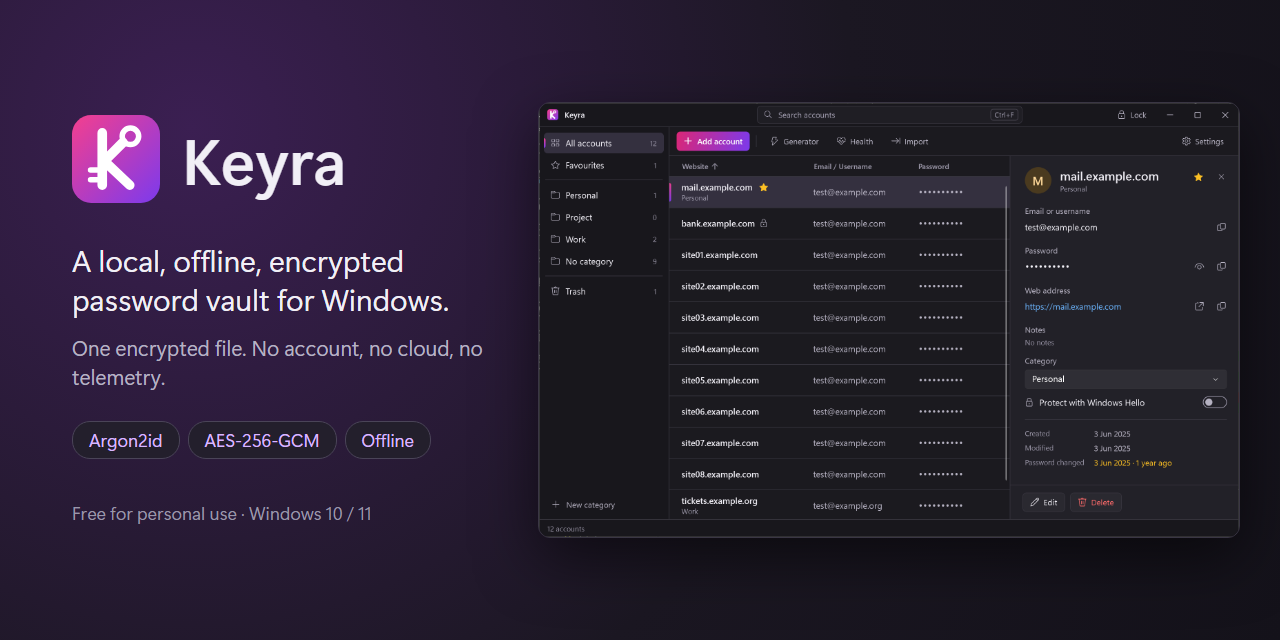
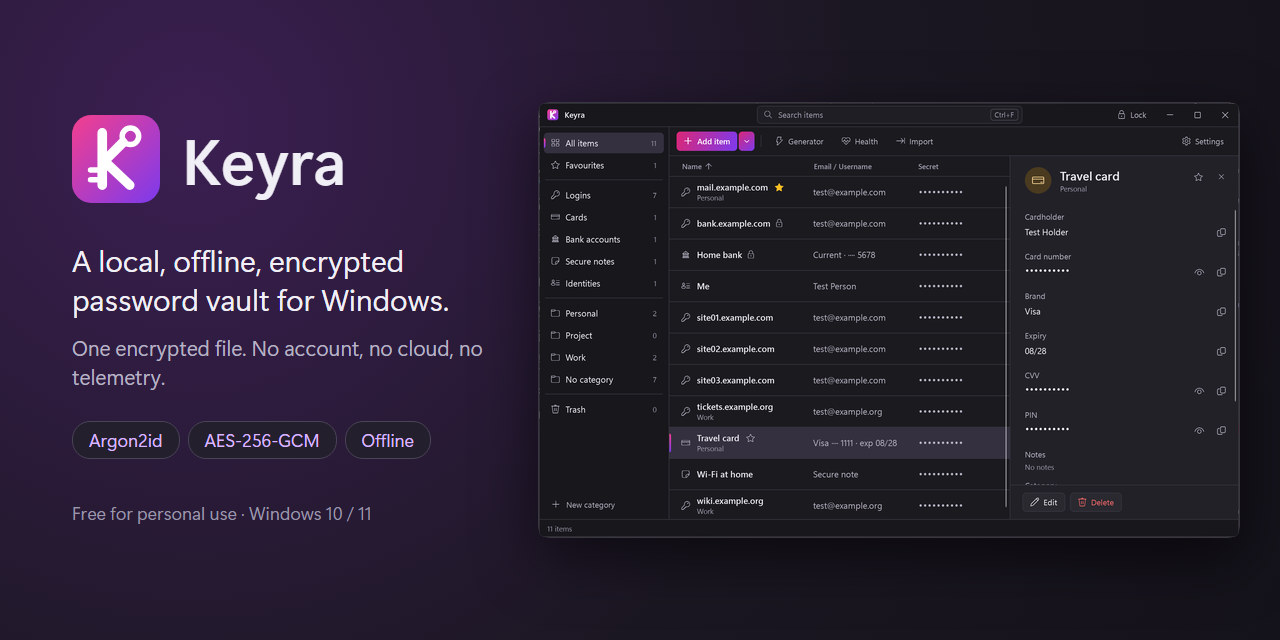
Keyra 1.7.1: Windows Hello unlock fixes, docs (where things are, restore, going back to 1.6, uninstall), new screenshots and social preview

diff --git a/docs/security.md b/docs/security.md
@@ -60,7 +60,7 @@ Every save writes a new temp file in the same folder, flushes it to disk, then r
 - The key stays in a pinned 32-byte array and is zeroed on lock.
 - Account strings are normal .NET strings. The garbage collector may copy them and they cannot be reliably zeroed. Decrypted JSON byte buffers and password byte buffers are zeroed after use. `SecureString` is not used: Microsoft does not recommend it for new code, and WPF text boxes produce strings anyway.
 - Secrets (password, notes, recovery phone, PIN, security answers, old passwords in the history, and the card, bank, note and ID secrets listed under "Protected items") are masked with a fixed-length mask. Only one is shown at a time; it hides again after 20 seconds, on selection change, when a dialog opens or the details panel closes, when the window loses focus, or on lock. Secrets are never searched. In the editor they are typed into password boxes, read in code-behind, never bound.
-- Lock happens on the Lock button, after inactivity (default 5 minutes), on minimize (with "Minimize to tray" on: lock, then hide), on Windows lock / user switch / remote disconnect, on suspend, and on exit. The tray icon exists only while Keyra is hidden and shows only "Keyra (locked)", "Open Keyra" and "Exit". Lock drops the items, zeroes the key, clears password boxes and dialogs, and clears a secret Keyra put on the clipboard. A lock that happens while an unlock or a vault create is still running wins: the vault stays locked.
+- Lock happens on the Lock button, after inactivity (default 5 minutes), on minimize (with "Minimize to tray" on: lock, then hide), on Windows lock / user switch / remote disconnect, on suspend, and on exit. The tray icon exists only while Keyra is hidden and shows only "Keyra (locked)", "Open Keyra" and "Exit". Lock drops the items, zeroes the key (with Hello unlock on, only a Windows Hello–wrapped copy stays in memory, see below), clears password boxes and dialogs, and clears a secret Keyra put on the clipboard. A lock that happens while an unlock or a vault create is still running wins: the vault stays locked.
 
 ## Screen capture and shoulder surfing
 - By default every Keyra window (main window, dialogs, tooltips, drop-downs, menus, file dialogs; not the tray icon menu, which shows no data and exists only while locked) is excluded from screenshots, recordings and screen sharing (Windows display affinity "exclude from capture"; black on older Windows). It is always on before unlock and on again after lock. You can allow capture in Settings → Advanced → Privacy after a confirmation.
@@ -70,7 +70,7 @@ Every save writes a new temp file in the same folder, flushes it to disk, then r
 ## Unlock with Windows Hello
 - Off by default. Turned on per PC in Settings → Security (stored in plain `hello-unlock.txt` under LocalAppData; it holds no secret). Turning it on asks the master password. Editing the file to "on" only makes Keyra ask Windows Hello after the next master-password unlock; nothing works without that prompt.
 - Keyra uses one Windows Hello key per Windows user, named "Keyra vault unlock" (RSA 2048, made by Windows, in the TPM when the PC has one). Keyra never sees its private part. Two Keyra installs of the same Windows user share this key; turning the setting off in one makes Hello unlock in the other ask for the master password.
-- After each master-password unlock (and after turning it on or changing the master password), Keyra asks Windows Hello to sign a new random 32-byte challenge. Core derives a wrap key = HKDF-SHA256(signature, info "Keyra hello unlock v1") and encrypts the vault key with AES-256-GCM (random nonce; the vault header KDF bytes as associated data). The signature and the wrap key are zeroed at once.
+- After each master-password unlock (and after turning it on or changing the master password), Keyra asks Windows Hello to sign a new random 32-byte challenge. Keyra derives a wrap key = HKDF-SHA256(signature, info "Keyra hello unlock v1") and encrypts the vault key with AES-256-GCM (random nonce; the vault header KDF bytes as associated data). The signature and the wrap key are zeroed at once.
 - On lock the plain key is zeroed; only the wrapped key, the challenge and the time of the master-password entry stay in memory. A Hello unlock signs the same challenge again, unwraps the key and opens the file with every normal check (no Argon2).
 - The wrapped key is never written to disk, sent or logged. It is dropped when Keyra exits, when the setting is turned off, on restore, after 5 wrong master passwords in a "Confirm it's you" check (wrong passwords on the lock screen do not drop it), after every successful master-password unlock or change (a new one is made), on a failed signature or unwrap, and 14 days after the master-password entry that made it (wall clock and a clock the user cannot set back are both checked).
 - A Hello unlock does not open protected items: they still ask for their own check. Hello results never count as wrong passwords.
@@ -79,7 +79,7 @@ Every save writes a new temp file in the same folder, flushes it to disk, then r
 ## Protected items (Windows Hello)
 - An item can be marked "Protect with Windows Hello"; new cards, bank accounts, secure notes and identities start protected. Showing or copying its secrets (password, notes, recovery phone, PIN, security answers, old passwords, card number, CVV, account number, IBAN, note text, passport, national ID, licence and tax numbers), Edit, Delete, Restore, Clear history and turning protection off first ask Windows Hello, or the master password if Hello is not available or was canceled.
 - This is a gate inside the unlocked app, not encryption. The vault is still encrypted only with the key from the master password; a protected item is stored the same way as any other. The gate itself never derives or stores a key (Hello unlock, above, is separate).
-- A passed check opens only that item for 60 seconds; a dialog opened for it (editor, confirmation) keeps it open until the dialog closes. Lock ends every open item. Core itself refuses changes to a protected item without a passed check.
+- A passed check opens only that item for 60 seconds; a dialog opened for it (editor, confirmation) keeps it open until the dialog closes. Lock ends every open item. Keyra itself refuses changes to a protected item without a passed check.
 - The Health report never names an unprotected login that has the same password as a protected one.
 - The master-password check runs Argon2id with the open vault's salt and parameters and compares the result with the key in memory in constant time. Nothing is stored. After 5 wrong master passwords in a row the vault locks. The current password in Change master password is the same check and counts too. Argon2 runs outside the vault's internal lock, so the window stays responsive.
 - Limits: like everything in an unlocked session (T11, T12), the gate does not stop malware that reads Keyra's memory, where the decrypted items already are. It stops a person at the unlocked PC from simply clicking "show" or "copy".
@@ -116,6 +116,7 @@ Keyra makes no network calls. There is no telemetry, update check, or cloud API.
 - Two legacy share holders who work together (they can open the legacy snapshot by design).
 - Malware, keyloggers, or anyone controlling your Windows session while the vault is unlocked or while you type the master password.
 - Someone using your unlocked PC while Keyra is unlocked.
+- With Hello unlock on, anyone who passes your Windows Hello (face, finger or PIN) while Keyra runs.
 - A weak master password. Argon2id slows guessing; it does not stop guessing of a short or common password.
 - Memory dumps or the page file containing strings from an unlocked session.
 - Clipboard readers during the clipboard window.

diff --git a/docs/threat-model.md b/docs/threat-model.md
@@ -11,7 +11,7 @@ Trust boundary: the user's unlocked Windows session. Everything outside it (file
 | T4 | Someone swaps in an older vault file | Opens if the old password is used; shows old data | Not prevented. Same as restoring a backup. Accepted. A file changed while Keyra is open (another PC, OneDrive) is never overwritten: the next save, backup or upgrade locks instead; only a change in the instant between the last check and the rename is missed |
 | T5 | Crash or power loss during save | Old vault intact | Temp file + flush + atomic rename |
 | T6 | Attacker has source code or binaries | No help | No hard-coded keys or salts |
-| T7 | Attacker reads ordinary config/log files | Nothing secret | Settings with security effect are inside the vault; log has no secrets |
+| T7 | Attacker reads ordinary config/log files | Nothing secret | Settings with security effect are inside the vault, except `hello-unlock.txt` (per PC, on or off only: setting it to on only makes Keyra ask Windows Hello after the next master-password unlock); log has no secrets |
 | T8 | Shoulder surfing | Reduced | Masked by default, fixed-length mask, timed re-hide, hide when a dialog opens; optional blur of the list rows |
 | T9 | Clipboard leakage | Reduced | History/cloud exclusion, timed clear only if unchanged, clear on lock |
 | T10 | Unlocked app left alone | Reduced | Auto-lock 5 min, lock on minimize/Windows lock/suspend; minimize to tray always locks before hiding |
@@ -30,3 +30,4 @@ Trust boundary: the user's unlocked Windows session. Everything outside it (file
 | T23 | Shoulder surfing of cards and bank accounts in the list | Reduced | Rows show at most the last 4 digits (only for numbers of 8 or more characters), blurred with the list option; every number, CVV, PIN, IBAN and ID is masked like a password |
 | T24 | Someone at the PC unlocks a locked Keyra with Windows Hello | Possible only if Hello unlock is on (off by default), Keyra still runs, and they pass your Windows Hello; the master password is needed after Keyra starts and at least every 14 days; protected items still ask | Windows Hello signs a challenge and the wrap key comes from that signature, so anyone who passes your Windows Hello (face, finger, PIN) can do it |
 | T25 | Someone reads the Hello-wrapped key from memory or disk | Never on disk or in the log; in memory it is encrypted with a key that needs a Windows Hello signature; dropped on exit, restore, 5 wrong passwords in a "Confirm it's you" check and after 14 days | AES-256-GCM wrap under HKDF(signature); malware in the session (T12) can ask Windows Hello itself while you are there |
+| T26 | Malware that can read Keyra's memory gets one Windows Hello approval while Keyra is locked | Not prevented when Hello unlock is on: the wrapped key, the challenge and one signature give the vault key without the master password | Same as T12: such malware can also wait until the vault is unlocked. A memory dump of a locked Keyra or a stolen disk alone is not enough: it also needs Keyra's Windows Hello key and your Windows Hello |

diff --git a/docs/release-notes.md b/docs/release-notes.md
@@ -1,5 +1,24 @@
 # Release notes
 
+## 1.7.1
+
+Fixes for Windows Hello unlock.
+
+### Fixed
+- When you bring a locked Keyra to the front, it now asks Windows Hello by itself. In 1.7.0 only the button worked.
+- Closing Keyra now erases its Windows Hello unlock data from memory at once.
+- A master password you type while the Windows Hello prompt is open stays in the box. Enter does nothing while the prompt is open; press it again after the prompt closes.
+- A message about the vault file (damaged, from a newer Keyra, changed or moved outside Keyra) stays on the lock screen; the Windows Hello prompt no longer hides it.
+- Keyra no longer starts the Windows Hello prompt by itself right after another Windows Hello prompt, a message or a file dialog closed.
+- Turning Hello unlock off while its setup prompt is open now really turns it off, and the switch no longer flips back.
+- The 14 days now count from your master password entry. Turning Hello unlock on no longer counts as the master-password check for Legacy access. Creating a new vault ends an older Hello unlock.
+- The line "Confirm with Windows Hello to unlock Keyra this way next time." stays while the prompt is open.
+- Info lines on the lock screen are grey, problems stay in the warning colour, and screen readers announce them.
+- Keyra brings only the real Windows Hello prompt to the front.
+
+### Upgrade
+- Install over 1.7.0 or 1.6; the vault file format does not change. From 1.5, see the 1.6 upgrade notes.
+
 ## 1.7.0
 
 Unlock Keyra with Windows Hello while it runs.
@@ -8,6 +27,9 @@ Unlock Keyra with Windows Hello while it runs.
 - **Unlock with Windows Hello** (Settings → Security, off by default, per PC). After you unlock with your master password, Windows Hello can unlock Keyra until you close it. When you bring a locked Keyra to the front, it asks Windows Hello by itself; the lock screen also has an "Unlock with Windows Hello" button.
 - Keyra asks for the master password after it starts and at least every 14 days. Protected items still ask for their own check.
 - After a master password change, Windows Hello asks once to renew Hello unlock.
+
+### Upgrade from 1.6
+- Install over 1.6. The vault file format does not change, so Keyra 1.6 still opens it.
 
 ### Security
 - The vault key is never written to disk. With Hello unlock on, a copy stays only in memory while Keyra runs, encrypted with a key that needs a Windows Hello signature. The vault file is still protected only by your master password; nothing changes in the file format.

diff --git a/docs/install.md b/docs/install.md
@@ -5,7 +5,7 @@ Keyra needs Windows 10 version 2004 (build 19041) or later, x64. It installs as 
 ## Install
 
 1. From [Releases](https://github.com/biswajitpanday/keyra-releases/releases), download `Keyra_<version>_x64.msix` and `KeyraDev.cer`.
-2. Check the download. In PowerShell, in the download folder (replace `<version>` with the name of the file you downloaded, e.g. `1.5.0.0`):
+2. Check the download. In PowerShell, in the download folder (replace `<version>` with the name of the file you downloaded, e.g. `1.7.1.0`):
    `Get-FileHash .\Keyra_<version>_x64.msix -Algorithm SHA256` must match the SHA-256 on the release page. This shows the file is complete; it cannot prove who made it.
 3. Check the signer:
    `(Get-AuthenticodeSignature .\Keyra_<version>_x64.msix).SignerCertificate.Thumbprint` and `(Get-PfxCertificate .\KeyraDev.cer).Thumbprint` must both be
@@ -29,7 +29,7 @@ To get notified, use **Watch → Custom → Releases** on this repository.
 
 ## Uninstall and remove data
 
-Before you uninstall: if "Unlock with Windows Hello" is on, turn it off in Settings → Security. This deletes Keyra's Windows Hello key.
+Before you uninstall: if "Unlock with Windows Hello" is on, turn it off in Settings → Security. This deletes Keyra's Windows Hello key. If you already uninstalled with it on, install Keyra again, unlock, turn it on (enter your master password and confirm with Windows Hello), then turn it off and uninstall.
 
 1. Settings → Apps → Keyra → Uninstall. This removes the app and, usually, its theme choice and event log. Your vault in the Documents folder is **not** removed.
 2. To remove the certificate trust, in an **admin** PowerShell:
@@ -46,3 +46,5 @@ Before you uninstall: if "Unlock with Windows Hello" is on, turn it off in Setti
 | Old copies: the vault before a restore, and your Keyra 1.5 vault (they open with the master password of that time; delete them in Settings › Backup) | same folder, `vault.keyra.pre-restore-<time>.bak` and `vault.keyra.pre-1.6.bak` |
 | Legacy snapshot (encrypted, only if you set up legacy access) | the file you choose |
 | Theme choice and event log (no secrets) | `%LOCALAPPDATA%\Keyra\`, or the MSIX private copy of it |
+| "Unlock with Windows Hello" on or off (per PC, no secrets) | `hello-unlock.txt` in `%LOCALAPPDATA%\Keyra\`, or the MSIX private copy of it |
+| Keyra's Windows Hello key "Keyra vault unlock" (only if you turned Hello unlock on) | Windows, in the TPM when the PC has one; turning the setting off deletes it |

diff --git a/docs/backup-and-recovery.md b/docs/backup-and-recovery.md
@@ -20,6 +20,8 @@ From the lock screen (**Restore from backup…**) or Settings → **Restore from
 4. Your current vault is kept next to it as `vault.keyra.pre-restore-<time>.bak`.
 5. The backup replaces the vault and Keyra locks. Unlock with the backup's password.
 
+A restore also ends Windows Hello unlock until you next unlock with the master password (of the restored vault).
+
 To undo a restore: restore the `.bak` file the same way (it opens with the password that vault had). If no vault was there before, no `.bak` is made.
 
 The `.bak` file is an old copy: it opens with the password that vault had and keeps its items, also deleted ones. When you no longer need it, delete it in Settings › Backup › Delete old copies.
@@ -42,7 +44,7 @@ If you still remember an **older** password, a backup made while that password w
 If you set up legacy access, any two of the three shares open the last legacy snapshot (**Open legacy vault…** on the lock screen). It is read-only and holds only the items you chose, so it is not a backup. See [legacy-access.md](legacy-access.md).
 
 ## Moving to a new PC
-Install Keyra 1.6 or newer (Windows 10 2004 or later), copy `vault.keyra` into `Documents\Keyra` (or use Restore), unlock with your master password.
+Install Keyra 1.6 or newer (Windows 10 2004 or later), copy `vault.keyra` into `Documents\Keyra` (or use Restore), unlock with your master password. "Unlock with Windows Hello" is set per PC: turn it on again in Settings → Security on the new PC.
 
 ## Importing from a CSV (one time)
 **Import** in the command bar (or **Import CSV** on an empty vault) opens one dialog with three steps. 1) Pick where your passwords are now (Chrome, Edge, Firefox, Bitwarden, KeePass, KeePassXC, LastPass, Proton Pass or another CSV) to see how to export them, then **Choose CSV file…**. 2) Keyra shows how many items are new (rows with a name and notes but no username and no password become secure notes), how many are already in Keyra (same website + email, or the same note) and which lines are not usable (missing website, email or password, or a field too long), plus the first new websites; "Delete the CSV file after the import" is ticked. 3) **Import** saves once and deletes the CSV. URL, notes, folder and favourite columns are imported too; a URL that is not a normal web address is left out. The file must be UTF-8: in Excel use "CSV UTF-8 (Comma delimited)". Other encodings are rejected so that no character in a password is changed.

diff --git a/docs/faq.md b/docs/faq.md
@@ -32,18 +32,21 @@ Keyra keeps these copies of your vault next to it:
 Each copy is encrypted, but it opens with the master password you had **when it was made**, and it still has the items of that day, also the ones you deleted later. If Documents syncs to OneDrive, the copies sync too. Keep them only while you may go back to Keyra 1.5 or want that older vault. To delete them, open Settings › Backup › **Delete old copies**. If you changed your master password because someone may know the old one, delete them now. Then also empty the OneDrive recycle bin.
 
 ## Can I go back to Keyra 1.5?
-Yes, with `vault.keyra.pre-1.6.bak`, but you lose everything you did in 1.6:
-- every item added in 1.6, also logins;
-- every change, deletion and category change made in 1.6;
+Yes, with `vault.keyra.pre-1.6.bak`, but you lose everything you did in 1.6 or later:
+- every item added since, also logins;
+- every change, deletion and category change made since;
 - a new master password (the copy opens with the one you had then).
 
-Keyra 1.5 cannot open your 1.6 vault, so swap the files by hand:
-1. Close Keyra and uninstall 1.6 (Settings → Apps → Keyra → Uninstall). Your vault in `Documents\Keyra` stays.
+Keyra 1.5 cannot open a vault saved by 1.6 or later, so swap the files by hand:
+1. If "Unlock with Windows Hello" is on, turn it off in Settings → Security. Close Keyra and uninstall it (Settings → Apps → Keyra → Uninstall). Your vault in `Documents\Keyra` stays.
 2. In `Documents\Keyra`, rename `vault.keyra` to `vault.keyra.1.6.bak` and keep it. Only Keyra 1.6 or newer can open it.
 3. Rename the 1.5 copy to `vault.keyra`. It is `vault.keyra.pre-1.6.bak`, or the newest `vault.keyra.pre-1.6-<time>.bak` if there are several.
 4. Install 1.5 and unlock with the master password you had then.
 
 If you deleted the old copies (Settings › Backup › Delete old copies), you cannot go back to 1.5.
+
+## Can I go back to Keyra 1.6?
+Yes, and you keep everything: 1.7 saves the vault the same way as 1.6. If "Unlock with Windows Hello" is on, turn it off in Settings → Security, uninstall Keyra (Windows does not install an older version over a newer one), then install 1.6. Your vault in `Documents\Keyra` stays and opens as it is.
 
 ## "Keyra could not make a copy of your vault before the upgrade"
 Keyra did not save anything, so your vault is unchanged. Check that `Documents\Keyra` is not full or read-only and that OneDrive has finished syncing, then try again.

diff --git a/docs/features.md b/docs/features.md
@@ -30,7 +30,7 @@ Everything Keyra does, its keys and its limits. To install, see [install](instal
 - **Auto-lock:** after inactivity (5 minutes by default), on minimize, when Windows locks, on sleep and on exit. Optionally hide Keyra next to the clock instead of the taskbar (Minimize to tray); it locks when it hides.
 
 ## Comfort
-- **Calm lock screen:** says what Keyra is (Encrypted · Offline · No tracking) and its version, warns when Caps Lock is on, and helps without alarm after a wrong password.
+- **Calm lock screen:** says what Keyra is (Encrypted · Offline · No tracking) and its version, shows an "Unlock with Windows Hello" button when Hello unlock is on, warns when Caps Lock is on, and helps without alarm after a wrong password.
 - **Short tour:** after the first unlock, six tips point at the main parts of the app. Settings → Take the tour again.
 - **Light and dark theme:** follows Windows, or choose one. Every setting and its default: [settings](settings.md).
 
@@ -65,6 +65,6 @@ On a protected item, Space, Ctrl+C, Del and double-click ask for Windows Hello f
 - A legacy snapshot is a copy made by hand. It does not update itself; Keyra reminds you when it is out of date.
 - Minimize to tray hides Keyra only after locking it; the tray icon exists only while Keyra is hidden.
 - Updates are installed by hand; Keyra does not tell you when a new version exists.
-- Keyra 1.5 cannot open a vault saved by 1.6. Going back means using the copy made before the first 1.6 save and losing everything done in 1.6; follow the steps in [the FAQ](faq.md#can-i-go-back-to-keyra-15).
+- Keyra 1.5 cannot open a vault saved by 1.6 or later. Going back means using the copy made before the first 1.6 save and losing everything done in 1.6; follow the steps in [the FAQ](faq.md#can-i-go-back-to-keyra-15).
 - No browser autofill, no 2FA codes and no attachments yet.
 - If two PCs change the vault at the same time (for example through OneDrive), Keyra does not merge: it keeps the other change and locks; your unsaved change is not made.

diff --git a/docs/settings.md b/docs/settings.md
@@ -11,7 +11,7 @@ Open **Settings** in the command bar. Every setting except the theme and "Unlock
 | Lock on minimize | On | On / Off | Locks when Keyra is minimized to the taskbar. |
 | Minimize to tray | Off | On / Off | Minimize locks Keyra and hides it next to the clock instead of the taskbar. |
 | Lock when Windows locks | On | On / Off | Locks on Windows lock, user switch and remote disconnect. |
-| Unlock with Windows Hello | Off | On / Off | After you unlock with your master password, Windows Hello can unlock Keyra until you close it. Keyra asks for the master password at least every 14 days. Turning it on asks the master password. Set per PC in `hello-unlock.txt` (not secret). Disabled when Windows Hello is not set up. |
+| Unlock with Windows Hello | Off | On / Off | After you unlock with your master password, Windows Hello can unlock Keyra until you close it. Keyra asks for the master password at least every 14 days. Turning it on asks the master password. Set per PC in `hello-unlock.txt` (not secret). Disabled when Windows Hello is not set up, and for a moment while Keyra checks Windows Hello or turns it on or off. |
 | Change master password | — | — | Re-encrypts the whole vault with a new key. Old backups keep the old password. |
 
 Keyra also always locks on sleep, on exit, and after 5 wrong master passwords in a row in a "Confirm it's you" check.

diff --git a/docs/vault-format.md b/docs/vault-format.md
@@ -91,7 +91,7 @@ After an unlock, weaker-than-default KDF parameters are raised (per field, the l
 
 ## Versions
 
-Version 5 is the format of Keyra 1.6 (item kinds). Version 4 is the format of Keyra 1.5: 1.6 reads it (every item is a Login) and writes version 5 on the first save, after the copy above. Versions 1 to 3 were used only by early test versions and are not read. A future format gets version `6`. Unknown versions are always rejected, never guessed.
+Version 5 is the format of Keyra 1.6 and 1.7 (item kinds; 1.7 adds nothing to the file: Hello unlock lives only in memory and in the per-PC `hello-unlock.txt`). Version 4 is the format of Keyra 1.5: 1.6 reads it (every item is a Login) and writes version 5 on the first save, after the copy above. Versions 1 to 3 were used only by early test versions and are not read. A future format gets version `6`. Unknown versions are always rejected, never guessed.
 
 ## Example (header of a test vault)
 

diff --git a/docs/legacy-access.md b/docs/legacy-access.md
@@ -9,6 +9,7 @@ without your master password.
 - It makes **three shares**. Any **two** of them open the snapshot. One share alone opens nothing.
 - The **snapshot** is a separate file holding only the items you chose, encrypted with the legacy key.
 - You update the snapshot by hand. Keyra tells you when it is out of date (more than 30 days old and something changed).
+- The legacy view never uses Windows Hello unlock; it opens only with two shares.
 
 Give the shares to different people or places (for example: one to a family member, one to a lawyer,
 one in a safe). Keep the snapshot file where your heirs can find it (USB stick, cloud folder).
@@ -20,7 +21,7 @@ Anyone with the vault unlocked and the master password can make new shares.
 
 ## Crypto
 
-Only built-in .NET primitives (constitution rule 1):
+Only built-in .NET primitives:
 
 ```
 shares s1, s2, s3     = 32 random bytes each

diff --git a/SECURITY.md b/SECURITY.md
@@ -30,7 +30,7 @@ Out of scope, because Keyra cannot protect against them (see [the threat model](
 
 - malware or another person with full control of your unlocked Windows session
 - a weak or reused master password
-- a camera, shoulder surfing, or capture software that gets around Windows display affinity while a value is shown
+- a camera, shoulder surfing, or capture software that gets around Windows display affinity while a value is shown (Keyra blocks normal screenshots, recordings and screen sharing by default)
 
 ## Design
 

diff --git a/README.md b/README.md
@@ -59,7 +59,7 @@ All features, keys and limits: [features](docs/features.md).
 <summary><b>Check the download and trust the certificate</b> (PowerShell)</summary>
 
 ```powershell
-# Replace <version> with the name of the file you downloaded, e.g. 1.5.0.0
+# Replace <version> with the name of the file you downloaded, e.g. 1.7.1.0
 # SHA-256 must match the release page (shows the file is complete, not who made it)
 Get-FileHash .\Keyra_<version>_x64.msix -Algorithm SHA256
 
